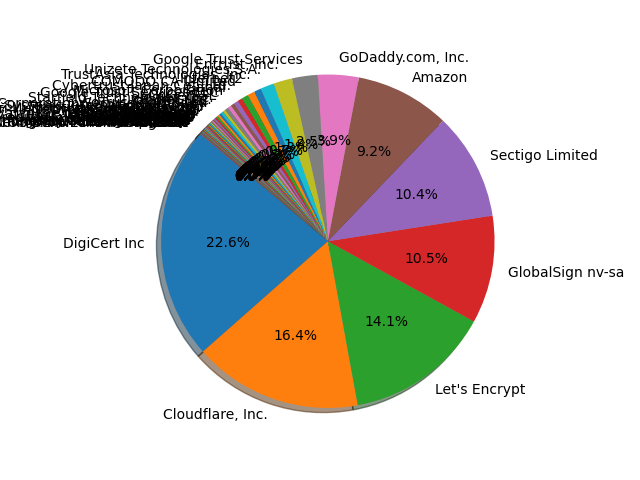
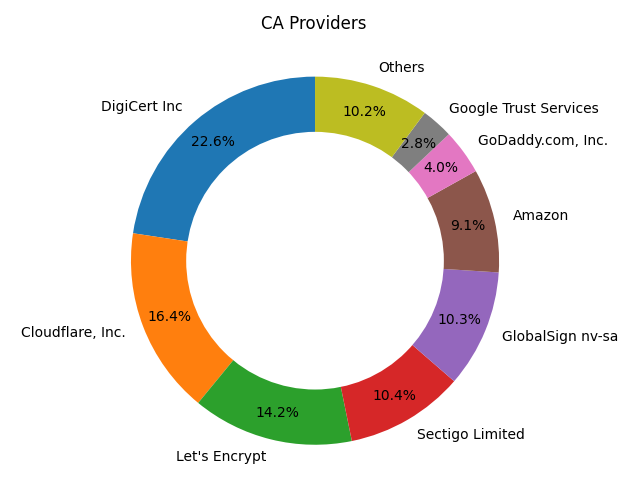
Amélioration du camembert

diff --git a/ca-print.py b/ca-print.py
@@ -7,7 +7,13 @@ cur = con.cursor()
 #cur.execute("select * from ca")
 #print(cur.fetchall())
 
-cur.execute("SELECT ca_provider, COUNT(*) provider_count FROM ca GROUP BY ca.ca_provider ORDER BY provider_count DESC")
+#merge same providers together
+cur.execute("UPDATE ca SET ca_provider='DigiCert Inc' WHERE ca_provider='DigiCert, Inc.'")
+cur.execute("UPDATE ca SET ca_provider='Google Trust Services' WHERE ca_provider='Google Trust Services LLC'")
+#beyond Google Trust Services, we merge all providers together
+cur.execute("UPDATE ca SET ca_provider='Others' WHERE ca_provider NOT IN ('DigiCert Inc', 'Cloudflare, Inc.', \"Let's Encrypt\", 'Sectigo Limited', 'GlobalSign nv-sa', 'Amazon', 'GoDaddy.com, Inc.', 'Google Trust Services')")
+
+cur.execute("SELECT ca_provider, COUNT(*) provider_count FROM ca WHERE ca_provider IS NOT 'Others' GROUP BY ca_provider ORDER BY provider_count DESC")
 #cur.execute("SELECT ca_provider, COUNT(*) provider_count FROM ca GROUP BY ca.ca_provider ORDER BY ca.ca_provider ASC")
 #print(cur.fetchall())
 data = cur.fetchall()
@@ -21,6 +27,12 @@ for row in data:
     ca_provider.append(row[0])
     provider_count.append(row[1])
 
+cur.execute("SELECT ca_provider, COUNT(*) provider_count FROM ca WHERE ca_provider IS 'Others' GROUP BY ca_provider")
+data = cur.fetchall()
+print(data)
+ca_provider.append(data[0][0])
+provider_count.append(data[0][1])
+
 #cur.execute("SELECT ca_provider FROM ca GROUP BY ca.ca_provider ORDER BY COUNT(*) DESC")
 labels = ca_provider #labels =
 #cur.execute("SELECT COUNT(*) provider_count FROM ca GROUP BY ca.ca_provider ORDER BY provider_count DESC")
@@ -29,10 +41,14 @@ sizes = provider_count #sizes =
 #explode = (0.1, 0, 0, 0)  # explode 1st slice
 
 # Plot
-patches, texts = plt.pie(sizes, labels=labels, autopct='%1.1f%%', shadow=True, startangle=140)
-plt.legend(patches, labels, loc="best")
-
+plt.pie(sizes, labels=labels, autopct='%1.1f%%', startangle=90, pctdistance=0.85)   #patches, texts = 
+#plt.legend(patches, labels, loc="best")
+plt.title('CA Providers\n')
+centre_circle = plt.Circle((0,0),0.70,fc='white')
+fig = plt.gcf()
+fig.gca().add_artist(centre_circle)
 plt.axis('equal')
+plt.tight_layout()
 plt.show()
 plt.savefig("camembert.png")
 
